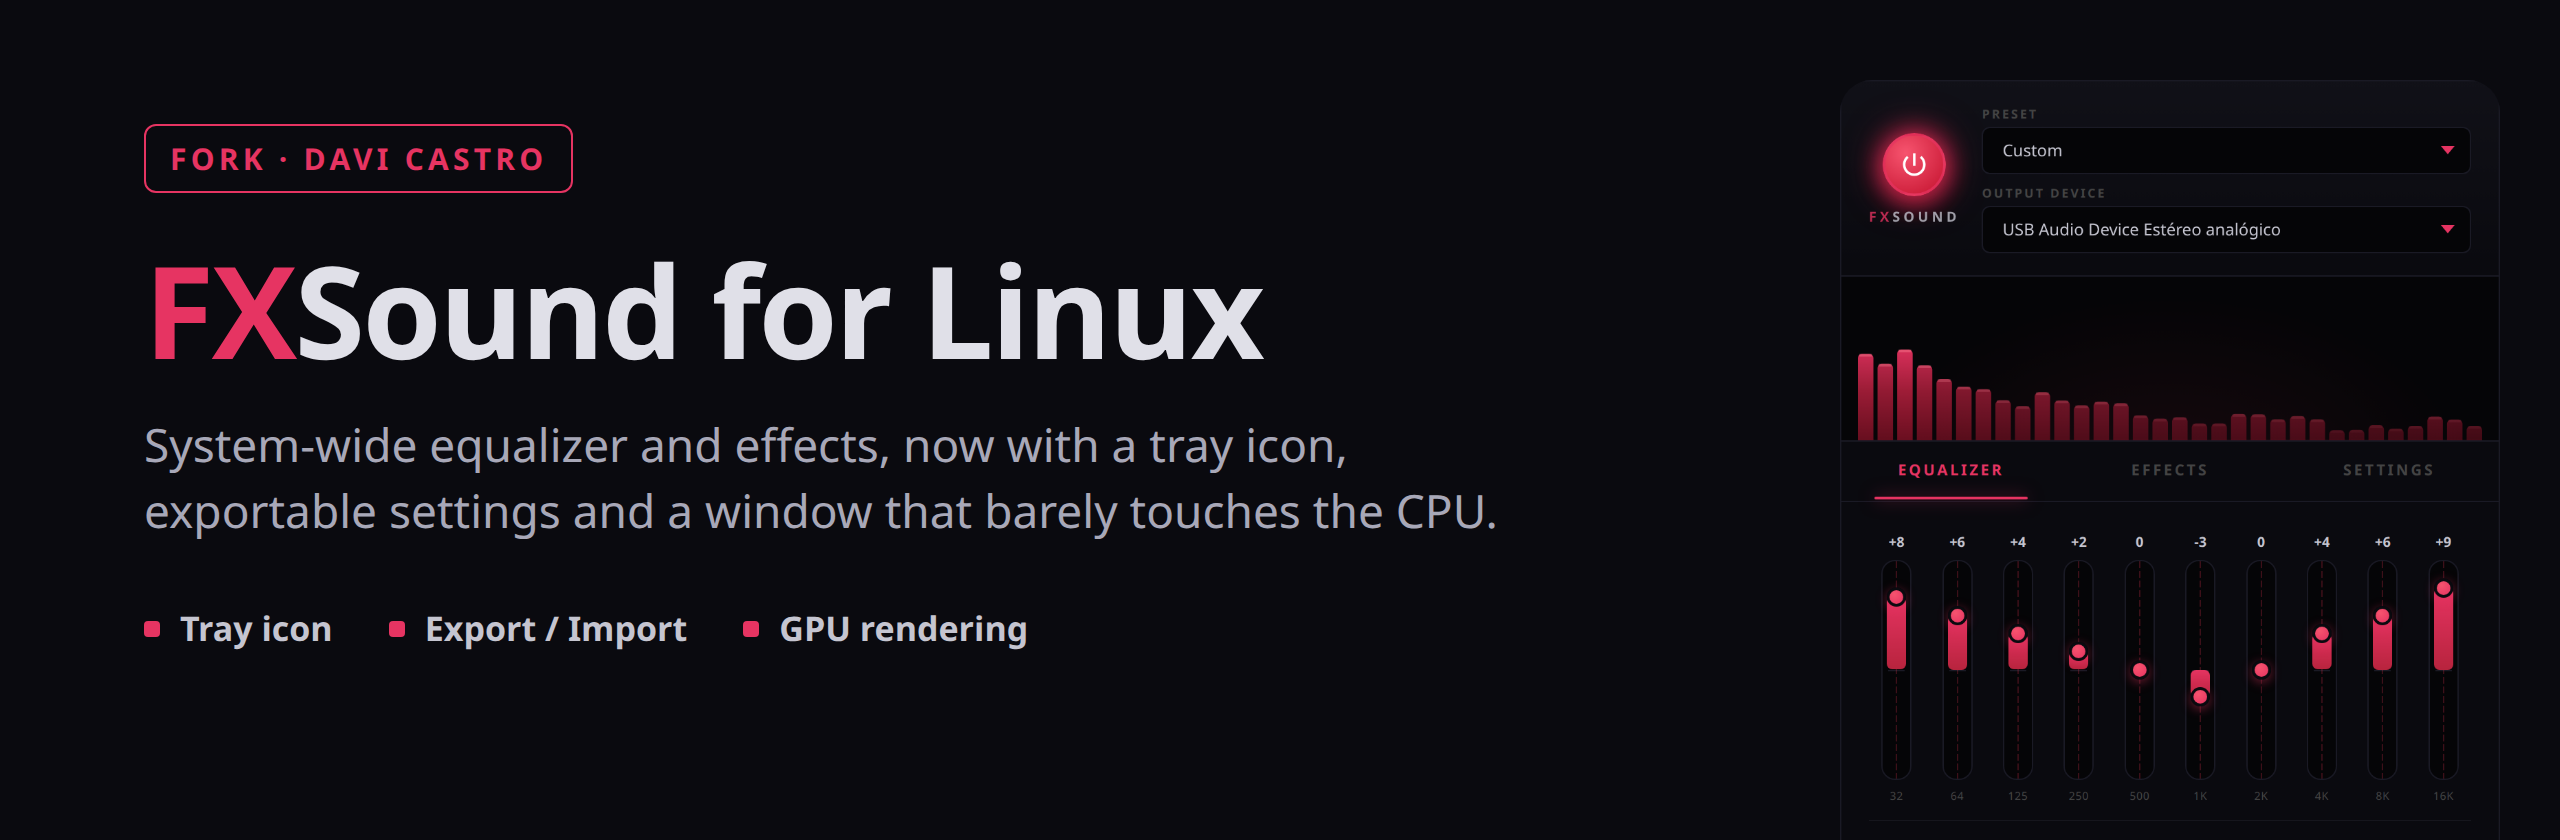
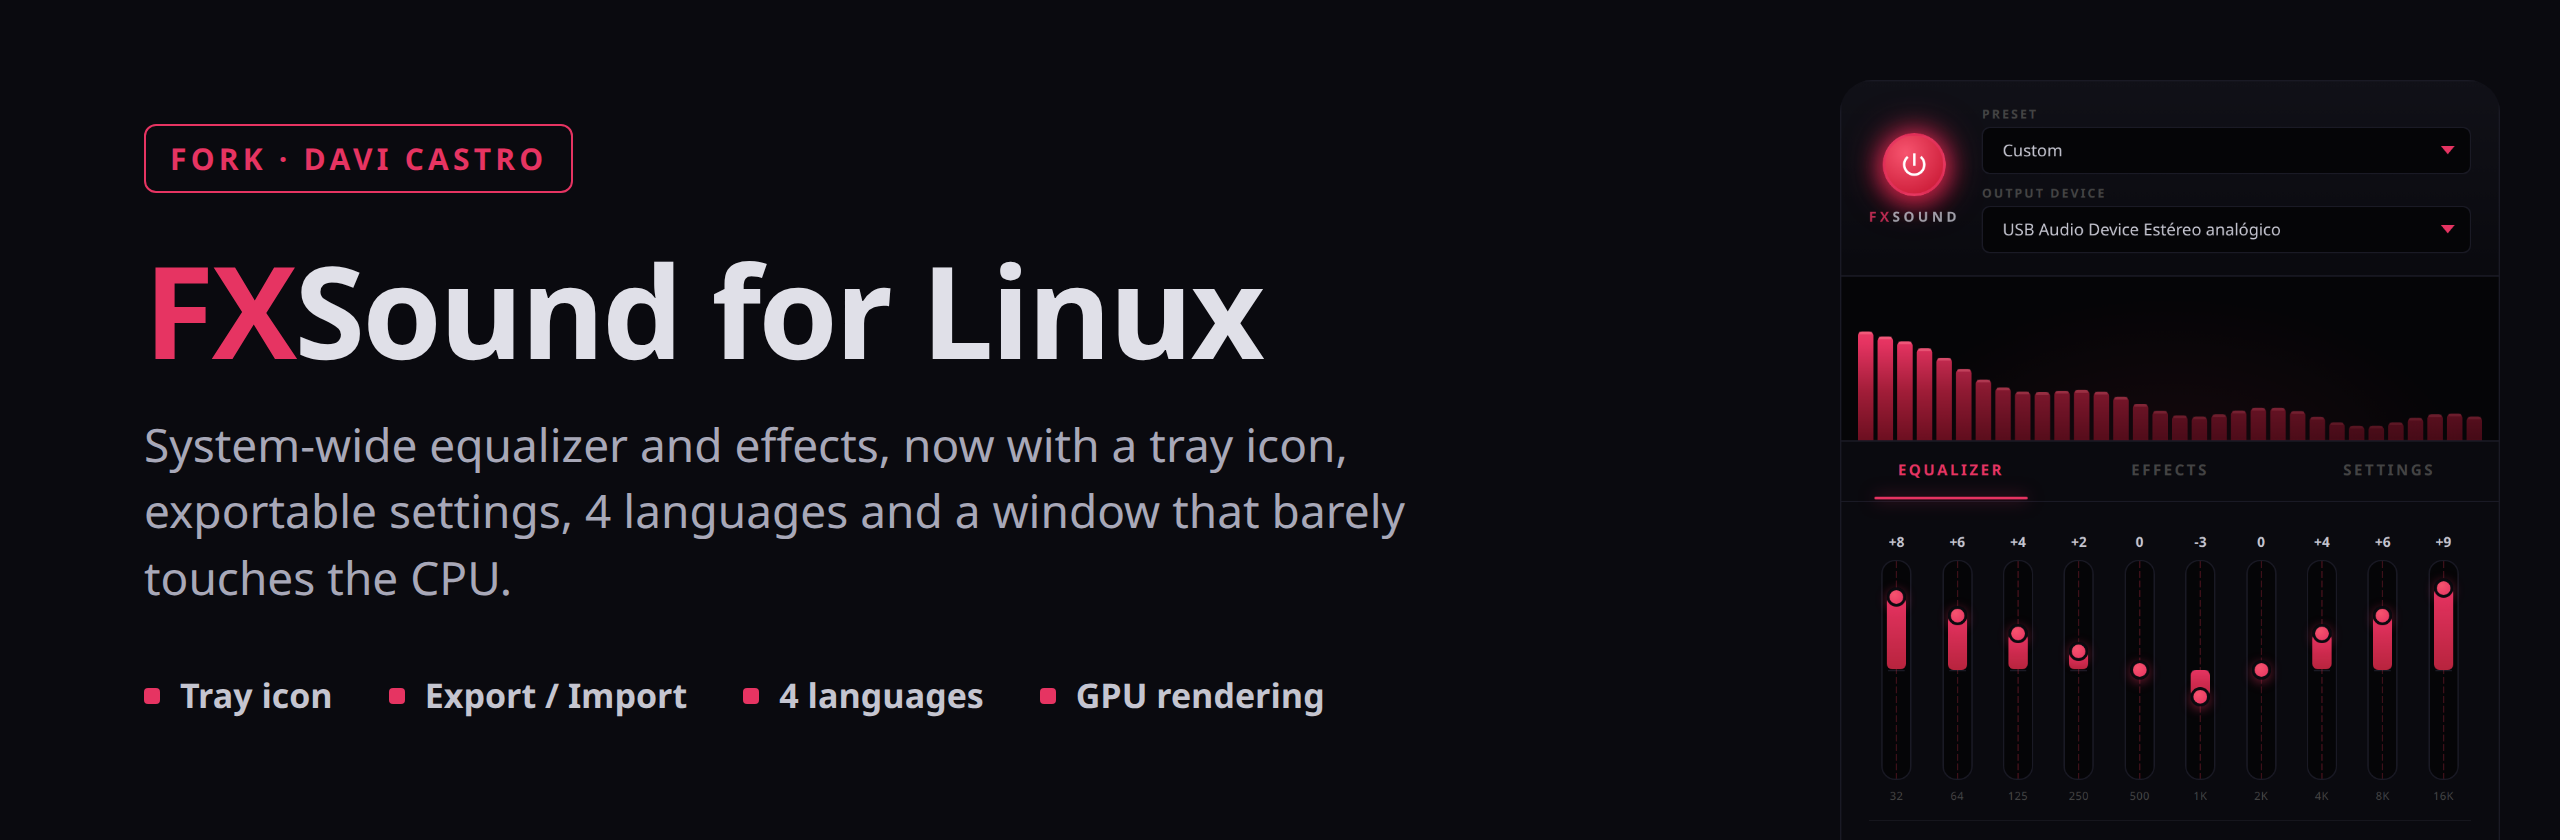
Docs: idiomas no README, prints em português e em inglês

diff --git a/README.md b/README.md
@@ -27,10 +27,10 @@ desligava o efeito) e não dava para salvar ou levar a configuração para outro
 resolve isso. O que mudou está explicado abaixo.
 
 <p align="center">
-  <img src=".github/readme/telas.png" alt="As três abas do app: Equalizer, Effects e a nova aba Settings" width="100%">
+  <img src=".github/readme/telas.png" alt="As três abas do app em português: Equalizador, Efeitos e a nova aba Ajustes" width="100%">
 </p>
 
-<p align="center"><sub>Equalizador · Efeitos · Settings (aba nova deste fork)</sub></p>
+<p align="center"><sub>Equalizador · Efeitos · Ajustes (aba nova deste fork), já em português</sub></p>
 
 ---
 
@@ -38,13 +38,14 @@ resolve isso. O que mudou está explicado abaixo.
 
 | Problema no original | Causa | O que este fork faz |
 |---|---|---|
-| A janela ocupava **70 a 90% de um núcleo** do processador, mesmo parada | O app força `LIBGL_ALWAYS_SOFTWARE=1` em todo PC (para não quebrar em máquina virtual), então a tela inteira é desenhada pelo processador, sem placa de vídeo | Decide na abertura: usa a **placa de vídeo** onde ela funciona (Mesa + X11, fora de VM, sem driver NVIDIA, fora do Wayland) e o processador nos outros casos. O motivo aparece na aba Settings |
+| A janela ocupava **70 a 90% de um núcleo** do processador, mesmo parada | O app força `LIBGL_ALWAYS_SOFTWARE=1` em todo PC (para não quebrar em máquina virtual), então a tela inteira é desenhada pelo processador, sem placa de vídeo | Decide na abertura: usa a **placa de vídeo** onde ela funciona (Mesa + X11, fora de VM, sem driver NVIDIA, fora do Wayland) e o processador nos outros casos. O motivo aparece na aba Ajustes |
 | Se a placa de vídeo falhar, o app não abre e você não consegue nem trocar a opção | O erro (`EGL_BAD_PARAMETER`) derruba o WebKitGTK antes de a janela existir | Cada abertura pela placa de vídeo deixa uma marca, apagada quando a janela carrega. Se a abertura morre antes disso, a próxima usa o processador sozinha e **guarda a falha** até você trocar a opção, para não ficar abrindo e travando em loop |
 | Mesmo usando a placa de vídeo, a janela parada gastava ~24% | O brilho do botão de power e do ponto "ACTIVE" anima o `box-shadow`, que obriga a redesenhar a janela 60 vezes por segundo, e o renderizador DMABUF ficava desligado | O mesmo brilho agora pulsa pela **opacidade** de uma camada (trabalho do compositor) e o DMABUF fica ligado no modo placa de vídeo. Visual idêntico |
 | O visualizador continuava trabalhando com a janela minimizada ou atrás de outras | O laço de desenho e a consulta ao motor de áudio nunca paravam | Com a janela escondida ou minimizada, o visualizador **para por completo**. Visível, desenha a 30 fps (os dados chegam a 20 Hz, então fica igual) e tem botão para desligar |
 | Fechar a janela desligava o efeito | Não havia ícone na bandeja | **Ícone na bandeja** com Show, Hide, Effects on/off e Quit. Fechar a janela deixa o FXSound rodando. Se o desktop não tiver bandeja, fechar sai como antes |
 | Não dava para salvar nem levar a configuração | Só existia o arquivo interno de configurações | **Exportar e importar** em JSON. O dispositivo de saída fica de fora, porque o nome dele é de cada PC. Arquivo de outro programa é recusado e valores fora da faixa são corrigidos |
 | Precisava abrir o app à mão a cada login | Sem início automático | **Iniciar com o sistema**, com a opção de já começar escondido na bandeja. Funciona com o AppImage |
+| Tudo só em inglês | A interface tinha os textos fixos | **4 idiomas: português, inglês, espanhol e chinês (simplificado)**, na janela, no menu da bandeja e nas janelas de abrir e salvar. No automático segue o idioma do sistema (`LC_ALL`, `LC_MESSAGES`, `LANG`) |
 
 ### Consumo medido (WebKitWebProcess, % de um núcleo)
 
@@ -62,26 +63,27 @@ não chegou na janela. Wayland e NVIDIA seguem no caminho seguro (processador), 
 
 ## Como usar
 
-### A aba Settings
+### A aba Ajustes
 
 | Opção | O que faz |
 |---|---|
-| **Spectrum visualizer** | Liga ou desliga as barras. Desligado, não gasta nada. O som não muda |
-| **Keep running in the tray when closed** | Fechar a janela deixa o FXSound na bandeja, com o efeito funcionando. Para sair de vez, use **Quit FXSound** no menu do ícone |
-| **Start with the system** | Abre o FXSound ao entrar na sessão (cria `~/.config/autostart/fxsound-linux.desktop`) |
-| **Start hidden in the tray** | Quando ele abre junto com o sistema, já fica só na bandeja |
-| **Window rendering** | `Automatic` (recomendado), `Graphics card (GPU)` ou `Processor (software)`. Mostra o que está em uso e por quê. Vale a partir da próxima abertura |
-| **Export configuration** | Salva EQ, efeitos, preset e estas opções num `.json` |
-| **Import configuration** | Carrega um `.json` exportado. O dispositivo de saída atual é mantido |
+| **Visualizador de espectro** | Liga ou desliga as barras. Desligado, não gasta nada. O som não muda |
+| **Continuar na bandeja ao fechar** | Fechar a janela deixa o FXSound na bandeja, com o efeito funcionando. Para sair de vez, use **Sair do FXSound** no menu do ícone |
+| **Iniciar com o sistema** | Abre o FXSound ao entrar na sessão (cria `~/.config/autostart/fxsound-linux.desktop`) |
+| **Iniciar escondido na bandeja** | Quando ele abre junto com o sistema, já fica só na bandeja |
+| **Idioma** | `Automático` (segue o sistema), English, Português, Español ou 中文. Muda na hora, inclusive o menu da bandeja |
+| **Desenho da janela** | `Automático` (recomendado), `Placa de vídeo (GPU)` ou `Processador (software)`. Mostra o que está em uso e por quê. Vale a partir da próxima abertura |
+| **Exportar configuração** | Salva EQ, efeitos, preset e estas opções num `.json` |
+| **Importar configuração** | Carrega um `.json` exportado. A saída de áudio atual é mantida |
 
 ### O ícone da bandeja
 
 | Item | O que faz |
 |---|---|
-| Show FXSound | Mostra a janela |
-| Hide to tray | Esconde a janela; o efeito continua |
-| Effects on | Liga ou desliga o efeito, sincronizado com o botão de power da janela |
-| Quit FXSound | Sai e devolve o som do sistema para a saída normal |
+| Mostrar FXSound | Mostra a janela |
+| Esconder na bandeja | Esconde a janela; o efeito continua |
+| Efeitos ligados | Liga ou desliga o efeito, sincronizado com o botão de power da janela |
+| Sair do FXSound | Sai e devolve o som do sistema para a saída normal |
 
 Abrir o FXSound pelo menu com ele já rodando traz a janela de volta, sem abrir uma segunda cópia.
 
@@ -119,8 +121,8 @@ Os pacotes ficam em `src-tauri/target/release/bundle/`:
 
 ### 3. Primeiro uso
 
-Abra o FXSound, ajuste o equalizador e os efeitos e, se quiser, ligue **Start with the system** na
-aba Settings. O app guarda tudo sozinho em `~/.config/com.fxsound.linux/settings.json`.
+Abra o FXSound, ajuste o equalizador e os efeitos e, se quiser, ligue **Iniciar com o sistema** na
+aba Ajustes. O app guarda tudo sozinho em `~/.config/com.fxsound.linux/settings.json`.
 
 ---
 
@@ -139,13 +141,14 @@ rm -rf ~/.config/com.fxsound.linux                      # configurações (opcio
 - **Deixe o volume do sistema em até 100%.** Acima disso o sinal estoura depois do limitador e
   distorce, principalmente o grave.
 - **Wayland e NVIDIA** ficam no modo processador no automático, porque foi onde o original
-  registrou falhas da placa de vídeo. Dá para forçar `Graphics card (GPU)`; se falhar, o app volta
+  registrou falhas da placa de vídeo. Dá para forçar `Placa de vídeo (GPU)`; se falhar, o app volta
   sozinho para o processador na abertura seguinte.
 - **`LIBGL_ALWAYS_SOFTWARE`** definido no ambiente passa por cima de tudo (`1` = processador,
   `0` = placa de vídeo), como no original.
 - **Não mate o processo do AppImage com `pkill -f` pelo caminho do arquivo.** Isso derruba
   primeiro o montador do AppImage, e o app fica travado sem os próprios arquivos. Feche pelo
-  **Quit** da bandeja, ou mande `kill` só no processo `fxsound-linux`.
+  **Sair do FXSound** da bandeja, ou mande `kill` só no processo `fxsound-linux`.
+- **Chinês**: as traduções são em chinês simplificado; `zh_TW` também cai nele.
 
 ---
 
@@ -157,7 +160,8 @@ rm -rf ~/.config/com.fxsound.linux                      # configurações (opcio
 | `src-tauri/src/lib.rs` | Comandos do Tauri, bandeja, fechar para a bandeja, exportar/importar |
 | `src-tauri/src/settings.rs` | Configurações salvas, opções da janela e o formato de exportação |
 | `src-tauri/src/audio.rs`, `pulse.rs` | Motor de áudio e roteamento (iguais ao original) |
-| `src/components/SettingsPanel.jsx` | A aba Settings (novo) |
+| `src/components/SettingsPanel.jsx` | A aba Ajustes (novo) |
+| `src/i18n.js`, `src-tauri/src/i18n.rs` | Textos dos 4 idiomas da janela e da bandeja/diálogos (novo) |
 | `src/components/Visualizer.jsx` | Visualizador, agora parando quando a janela não está visível |
 
 ```bash
@@ -166,10 +170,11 @@ cd .. && npm run lint
 npm run tauri dev    # roda em modo de desenvolvimento
 ```
 
-Os testes do Rust cobrem a escolha do renderizador, a proteção contra falha e o formato de
-exportação/importação (37 testes). Os textos da interface e os comentários do código seguem em
-inglês, como no projeto original, para que as mudanças continuem fáceis de comparar e de
-devolver ao autor.
+Os testes do Rust cobrem a escolha do renderizador, a proteção contra falha, o formato de
+exportação/importação e a detecção de idioma (41 testes). Para adicionar um idioma, inclua a
+tabela em `src/i18n.js` e em `src-tauri/src/i18n.rs` e o código em `SUPPORTED`. Os comentários do
+código seguem em inglês, como no projeto original, para que as mudanças continuem fáceis de
+comparar e de devolver ao autor.
 
 ---
 
@@ -180,6 +185,6 @@ devolver ao autor.
 - [FxSound](https://www.fxsound.com/): o programa do Windows que inspirou o projeto. Não há
   ligação oficial.
 - Davi Castro: este fork, com a renderização pela placa de vídeo e a proteção contra falha,
-  bandeja, início automático, exportar/importar e a redução de consumo da janela.
+  bandeja, início automático, exportar/importar, os 4 idiomas e a redução de consumo da janela.
 
 Licença MIT, igual ao original (veja `LICENSE`). Histórico de mudanças em [CHANGELOG.md](CHANGELOG.md).

diff --git a/README.en.md b/README.en.md
@@ -26,7 +26,7 @@ the window, had no tray icon (closing the window turned the effect off) and offe
 the configuration or take it to another PC. This fork fixes that, as explained below.
 
 <p align="center">
-  <img src=".github/readme/telas.png" alt="The three tabs: Equalizer, Effects and the new Settings tab" width="100%">
+  <img src=".github/readme/telas.en.png" alt="The three tabs: Equalizer, Effects and the new Settings tab" width="100%">
 </p>
 
 <p align="center"><sub>Equalizer · Effects · Settings (new in this fork)</sub></p>
@@ -44,6 +44,7 @@ the configuration or take it to another PC. This fork fixes that, as explained b
 | Closing the window turned the effect off | No tray icon | **Tray icon** with Show, Hide, Effects on/off and Quit. Closing the window keeps FXSound running. Without a tray on the desktop, closing quits as before |
 | No way to save or move the configuration | Only the internal settings file existed | **Export and import** as JSON. The output device is left out, because its name belongs to one machine. Files from other programs are rejected and out-of-range values are clamped |
 | The app had to be started by hand on every login | No autostart | **Start with the system**, optionally hidden in the tray. Works with the AppImage |
+| English only | The interface had hard-coded strings | **4 languages: English, Portuguese, Spanish and Chinese (Simplified)**, in the window, the tray menu and the file dialogs. Automatic follows the system locale (`LC_ALL`, `LC_MESSAGES`, `LANG`) |
 
 ### Measured cost (WebKitWebProcess, % of one core)
 
@@ -69,6 +70,7 @@ never reached the window. Wayland and NVIDIA stay on the safe (software) path, a
 | **Keep running in the tray when closed** | Closing the window keeps FXSound in the tray, effect on. To quit, use **Quit FXSound** in the tray menu |
 | **Start with the system** | Starts FXSound with the session (creates `~/.config/autostart/fxsound-linux.desktop`) |
 | **Start hidden in the tray** | When started with the session, stay in the tray |
+| **Language** | `Automatic` (follows the system), English, Português, Español or 中文. Changes immediately, tray menu included |
 | **Window rendering** | `Automatic` (recommended), `Graphics card (GPU)` or `Processor (software)`. Shows what is in use and why. Applies from the next launch |
 | **Export configuration** | Saves EQ, effects, preset and these options to a `.json` |
 | **Import configuration** | Loads an exported `.json`. The current output device is kept |
@@ -143,6 +145,7 @@ rm -rf ~/.config/com.fxsound.linux                 # settings (optional)
 - **Don't kill the AppImage with `pkill -f` on its path.** That takes down the AppImage mount
   first and leaves the app stuck without its own files. Use **Quit** in the tray, or `kill` only
   the `fxsound-linux` process.
+- **Chinese** is Simplified Chinese; `zh_TW` also maps to it.
 
 ---
 
@@ -155,6 +158,7 @@ rm -rf ~/.config/com.fxsound.linux                 # settings (optional)
 | `src-tauri/src/settings.rs` | Saved settings, window options and the export format |
 | `src-tauri/src/audio.rs`, `pulse.rs` | Audio engine and routing (unchanged) |
 | `src/components/SettingsPanel.jsx` | The Settings tab (new) |
+| `src/i18n.js`, `src-tauri/src/i18n.rs` | Strings for the 4 languages: window, tray and dialogs (new) |
 | `src/components/Visualizer.jsx` | Visualizer, now stopping when the window is not visible |
 
 ```bash
@@ -163,9 +167,10 @@ cd .. && npm run lint
 npm run tauri dev    # development mode
 ```
 
-The Rust tests cover the renderer choice, the failure guard and the export/import format
-(37 tests). UI strings and code comments stay in English, as in the original project, so the
-changes remain easy to compare and to send upstream.
+The Rust tests cover the renderer choice, the failure guard, the export/import format and
+language detection (41 tests). To add a language, add its table to `src/i18n.js` and
+`src-tauri/src/i18n.rs` and its code to `SUPPORTED`. Code comments stay in English, as in the
+original project, so the changes remain easy to compare and to send upstream.
 
 ---
 
@@ -174,7 +179,7 @@ changes remain easy to compare and to send upstream.
 - [Raul909](https://github.com/Raul909/FXSound_For_Linux): the original FXSound for Linux
   (audio engine, PipeWire/PulseAudio routing and the UI).
 - [FxSound](https://www.fxsound.com/): the Windows app that inspired the project. Not affiliated.
-- Davi Castro: this fork: GPU rendering with the failure guard, tray, autostart, export/import
-  and the lower window cost.
+- Davi Castro: this fork: GPU rendering with the failure guard, tray, autostart, export/import,
+  the 4 languages and the lower window cost.
 
 MIT License, same as the original (see `LICENSE`). Change history in [CHANGELOG.md](CHANGELOG.md).

diff --git a/CHANGELOG.md b/CHANGELOG.md
@@ -13,6 +13,7 @@ and this project adheres to [Semantic Versioning](https://semver.org/spec/v2.0.0
 - **Start with the system**, optionally hidden in the tray, from the new **Settings** tab (an XDG autostart entry; AppImage path handled).
 - **Export and import the configuration** (EQ, effects, preset and window options) as a JSON file. The output device is left out, since device names belong to one machine; files are validated and their values clamped on import.
 - **Visualizer switch** in Settings. Off stops all visualizer work, not only the drawing.
+- **Interface in 4 languages: English, Portuguese, Spanish and Chinese (Simplified)**, covering the window, the tray menu and the file dialogs. Automatic follows `LC_ALL` / `LC_MESSAGES` / `LANG`; a Language option in Settings overrides it and applies immediately. Known audio-status messages and import errors are translated too.
 
 ### Changed
 - **The window renders on the GPU where that is known to work** (a Mesa render node under X11, no VM, no NVIDIA driver, not Wayland), instead of always in software. Software rendering kept a CPU core busy just painting the visualizer. Every GPU launch is guarded: if one does not reach the UI, the next launch records it and renders in software until the option is changed. Settings shows which renderer is in use and why, and lets you force either one. `LIBGL_ALWAYS_SOFTWARE` still overrides everything.
